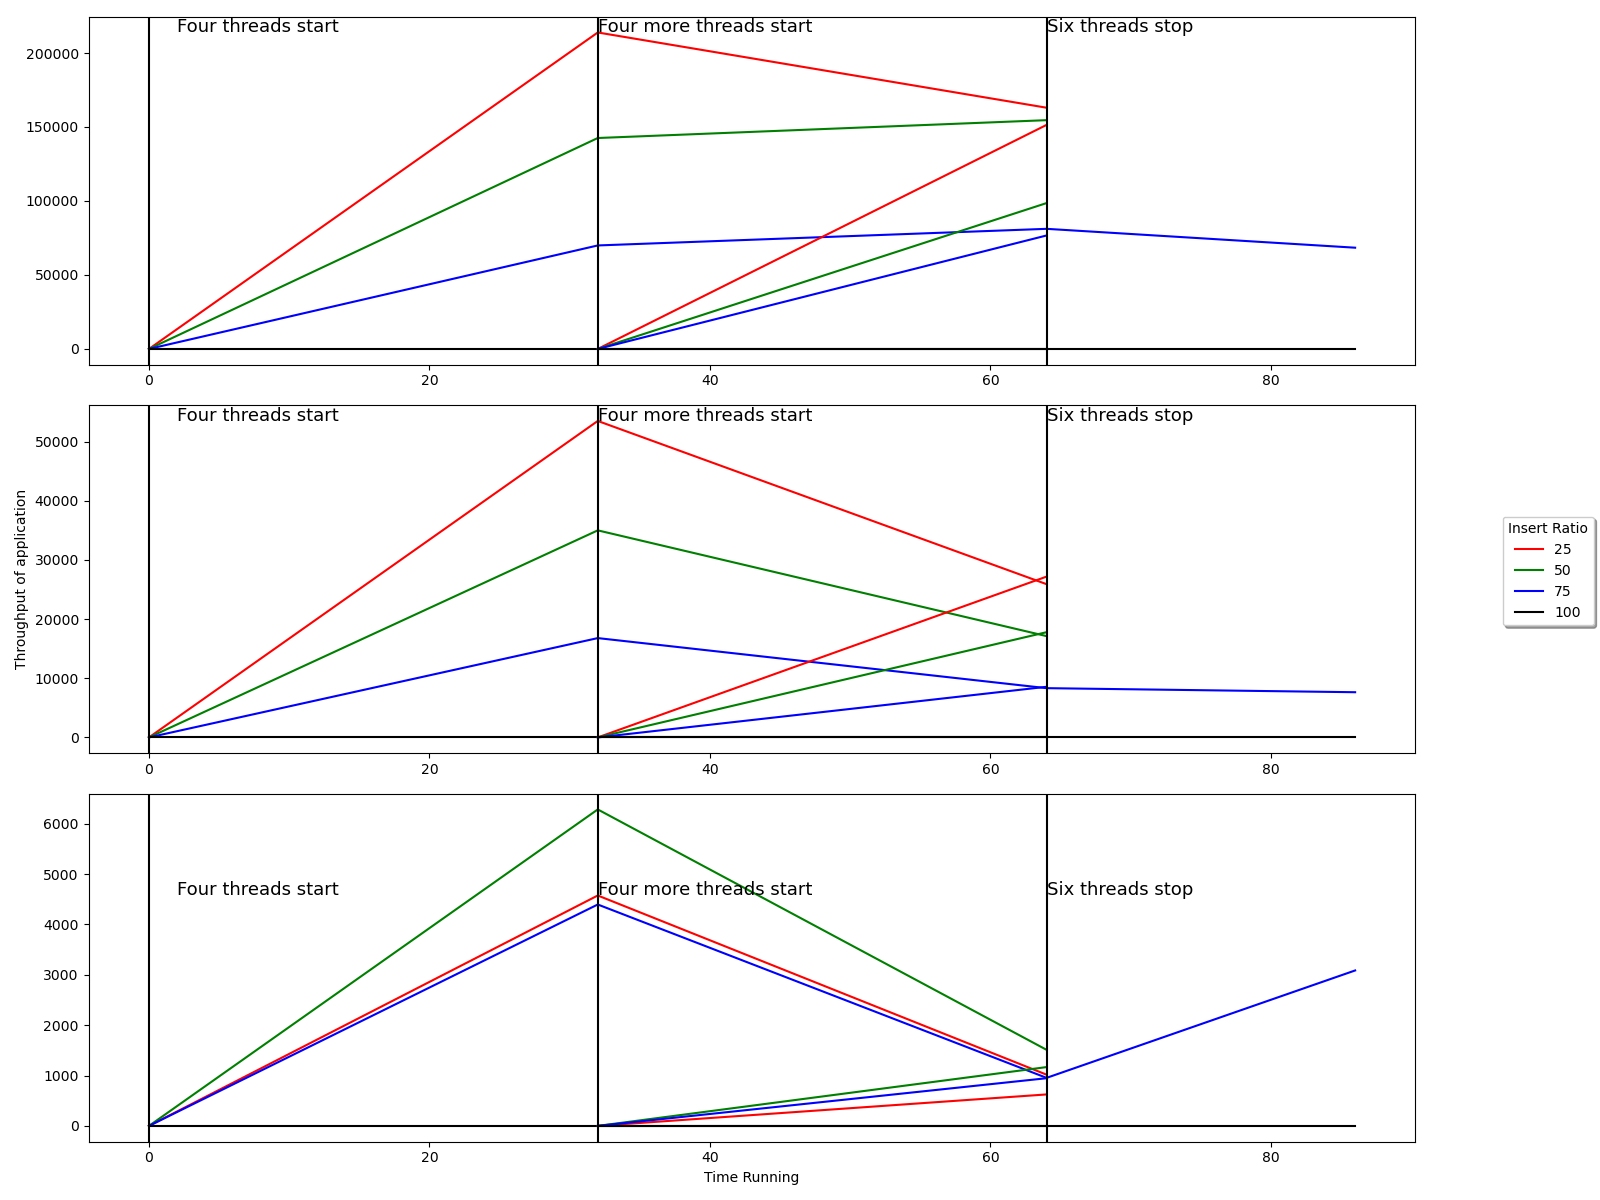
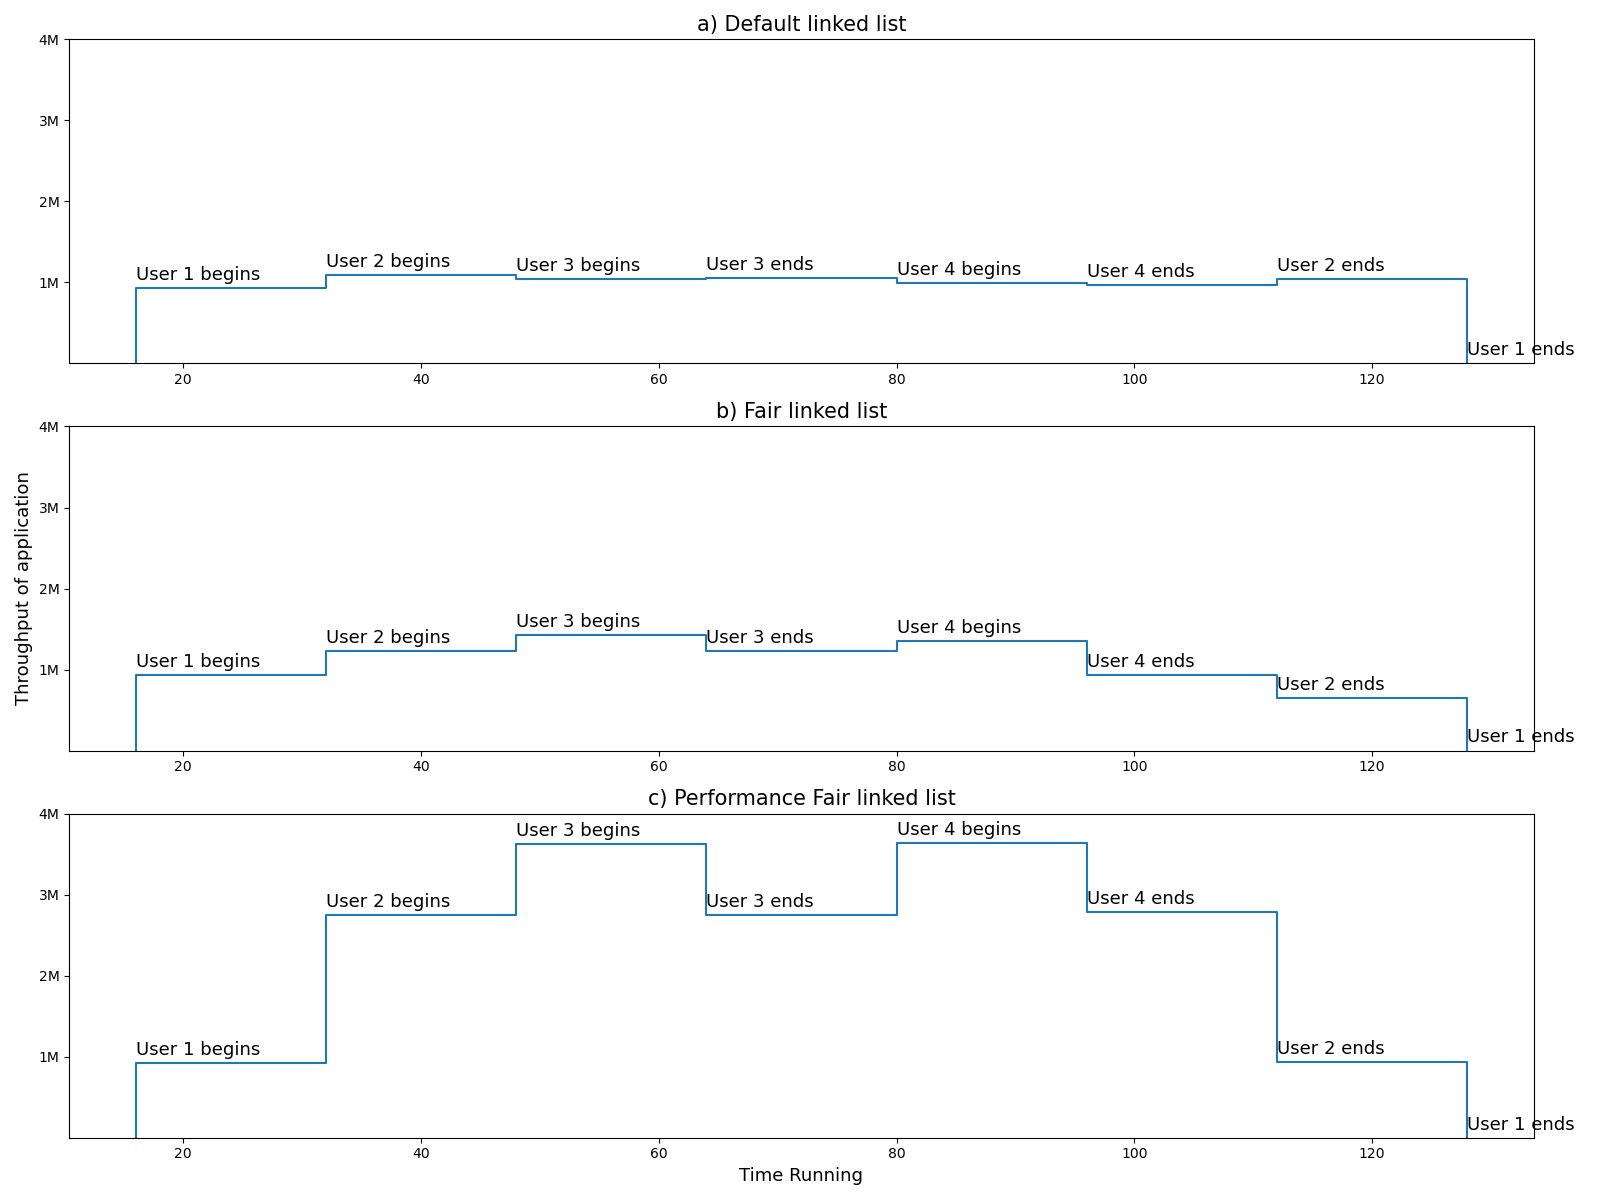
final graph changes to dynamic graph

diff --git a/generate_dynamic_graph.py b/generate_dynamic_graph.py
@@ -6,7 +6,7 @@ import csv
 import sys
 
 fig, axs = plt.subplots(3, figsize=(16, 12))
-
+count = 0
 path = "./tables/dynamic/"  #FILL THIS IN HERE
 fileCount = 0;
 for filename in os.listdir(path):
@@ -14,58 +14,70 @@ for filename in os.listdir(path):
     with open(os.path.join(path, filename), 'r') as file:
             type = filename.split('_list')[0]
             print(type)
-            count = -1
             colours = ['r', 'g', 'b', 'k', 'r', 'g', 'b', 'k']
             ratio = [1, 2, 3, 2, 3, 2, 1]
             reader = csv.reader(file)
             i = -1
+            app_thoughput = []
+            temp_app_throughput = []
+            final_app_throughput  = [0]
+            app_total_time = [0]
             for row in reader:
-                app_thoughput = [0]
-                app_total_time = [0]
                 if i == -1:
                     i = 1
                 else:
                     app_thoughput.append(int(row[1]))
-                    app_thoughput.append(int(row[1]))
+                    #app_thoughput.append(int(row[1]))
 
-                    app_total_time.append(int(row[2]))
-                    app_total_time.append(int(row[2]))
+                    app_total_time.append(float(row[2]))
+                    #app_total_time.append(float(row[2]))
 
-                    time_1 = [0, 16, 16, 32, 32, 48, 48, 64, 64, 80, 80, 96, 96, 112, 112, 138, 138]
-                    
-                    print(app_thoughput)
-                    axs[count].plot(time_1, app_thoughput, label = type)
+                    time_1 = [16, 16, 32, 32, 48, 48, 64, 64, 80, 80, 96, 96, 112, 112, 128, 128]
+            print(app_thoughput)
+            for i in range(len(app_thoughput)):
+                 if i == 0:
+                    temp_app_throughput.append(app_thoughput[i])
+                 else:
+                    temp_app_throughput.append(app_thoughput[i] - app_thoughput[i-1] + app_thoughput[0])
+            #print(temp_app_throughput)
+            for i in temp_app_throughput:
+                 final_app_throughput.append(i)
+                 final_app_throughput.append(i)
+            final_app_throughput.append(0)
+            print(final_app_throughput)
+            axs[count].plot(time_1, final_app_throughput, label = type)
 
+            handles, labels = axs[count].get_legend_handles_labels()
 
+            axs[count].text(time_1[0], final_app_throughput[1] + 100000, 'User 1 begins',fontsize=13)
 
-                    handles, labels = axs[count].get_legend_handles_labels()
+            #axs[count].axvline(x = 32, color = 'k', label = 'axvline - full height')
+            axs[count].text(time_1[3], final_app_throughput[3]+ 100000, 'User 2 begins', fontsize=13)
 
+            #axs[count].axvline(x = 64, color = 'k', label = 'axvline - full height')
+            axs[count].text(time_1[5], final_app_throughput[5]+ 100000, 'User 3 begins', fontsize=13)
+            axs[count].text(time_1[7], final_app_throughput[7]+ 100000, 'User 3 ends',fontsize=13)
 
-                    axs[count].text(time_1[0], max(app_thoughput), 'User 1 begins',fontsize=13)
+            #axs[count].axvline(x = 32, color = 'k', label = 'axvline - full height')
+            axs[count].text(time_1[9], final_app_throughput[9]+ 100000, 'User 4 begins', fontsize=13)
 
-                    #axs[count].axvline(x = 32, color = 'k', label = 'axvline - full height')
-                    axs[count].text(time_1[2], max(app_thoughput), 'User 2 begins', fontsize=13)
+            #axs[count].axvline(x = 64, color = 'k', label = 'axvline - full height')
+            axs[count].text(time_1[11], final_app_throughput[11]+ 100000, 'User 4 ends', fontsize=13)
+            axs[count].text(time_1[13], final_app_throughput[13]+ 100000, 'User 2 ends', fontsize=13)   
+            axs[count].text(time_1[15], final_app_throughput[15]+ 100000, 'User 1 ends', fontsize=13)     
+            #by_label = dict(zip(labels, handles))
+            axs[count].set_ylim([1, max(final_app_throughput) + 100000 + 100000])
+            axs[count].set_yticks([1000000, 2000000, 3000000, 4000000])
+            #ylabels = ["1M", "2M", "3M", "4M"]
+            axs[count].set_yticklabels(["1M", "2M", "3M", "4M"])
+            list=["a) Default", "b) Fair", "c) Performance Fair"]
+            axs[count].set_title(list[count]+ " linked list", fontsize=15)
+            #axs[count].legend(by_label.values(), by_label.keys(), loc='upper center', bbox_to_anchor=(1.1, 0.7), title="Insert Ratio", fancybox=True, shadow=True, fontsize=10)
 
-                    #axs[count].axvline(x = 64, color = 'k', label = 'axvline - full height')
-                    axs[count].text(time_1[4], max(app_thoughput), 'User 3 begins', fontsize=13)
-                    axs[count].text(time_1[6], max(app_thoughput), 'User 3 ends',fontsize=13)
-
-                    #axs[count].axvline(x = 32, color = 'k', label = 'axvline - full height')
-                    axs[count].text(time_1[8], max(app_thoughput), 'User 4 begins', fontsize=13)
-
-                    #axs[count].axvline(x = 64, color = 'k', label = 'axvline - full height')
-                    axs[count].text(time_1[10], max(app_thoughput), 'User 4 ends', fontsize=13)
-                    axs[count].text(time_1[12], max(app_thoughput), 'User 2 ends', fontsize=13)   
-                    axs[count].text(time_1[14], max(app_thoughput), 'User 1 ends', fontsize=13)     
-                    by_label = dict(zip(labels, handles))
-
-                    count+= 1
-
-                    axs[1].legend(by_label.values(), by_label.keys(), loc='upper center', bbox_to_anchor=(1.1, 0.7),
-title="Insert Ratio", fancybox=True, shadow=True, fontsize=10)
-#plt.title("Total lock hold per thread")
-axs[1].set_ylabel("Throughput of application", fontsize=10)#,  yscale = "log")#, #ylim=[1, 10**6])
-axs[2].set_xlabel("Time Running", fontsize=10)
+            count += 1
+            print(count)#plt.title("Total lock hold per thread")
+            axs[1].set_ylabel("Throughput of application", fontsize=13)#,  yscale = "log")#, #ylim=[1, 10**6])
+            axs[2].set_xlabel("Time Running", fontsize=13)
 
 plt.tight_layout()
 

diff --git a/generate_total_tables.py b/generate_total_tables.py
@@ -5,57 +5,55 @@ import os
 import csv
 import sys
 
-final_data = []
 
-rootdir = "./data/"
-for dir in os.listdir(rootdir):
-    type = dir.split('_list')[0]
-    print(type)
-    for filename in os.listdir("./data/" + dir):
-        with open(os.path.join("./data/" + dir, filename), 'r') as file:
-            if filename == "dynamic_applications":
-                applications = 8
-                ratio = [2, 4, 6, 4, 6, 4, 2]
-                throughput = [0, 0, 0, 0, 0, 0, 0]
-                total_cs = [0, 0, 0, 0, 0, 0, 0]
-                duration = 86
-                no_threads = []
-                thread_type = []
-                insert_id = 0
-                find_id = 0
-                tot_time = 0
-                i_tot_time = 0
-                n_ops = 0
-                i_n_ops = 0
-                app_tot_time = 0
-                app_i_tot_time = 0
-                app_n_ops = 0
-                app_i_n_ops = 0
-                for t in range(len(ratio)):
-                    for i in range(ratio[t]):
-                        text_line = file.readline()
-                        # if ((text_line.split(' ')[0] == "Spin_Lock_Opp:") or (not text_line) or (text_line == " ")or (text_line == "\n")):
-                        #     print("ignore")
-                        #     #do nothing with this line
-                        # else:
-                        text = text_line.split('/')
-                        thread_type = text[0].split(' ')[0]
-                        if (thread_type == "id:"):
-                            thread_type = text[0].split(' ')[0]
-                        if (thread_type == 'find'):
-                            thread_id = int(text[0].split(':')[-1]) #int(find_info(text, 1).lstrip().rstrip())
-                            no_ops = int(text[1].split(':')[-1]) #int(find_info(text, 1).lstrip().rstrip())
-                            total_time = float(text[2].split(':')[-1]) #find_info(text, 1).lstrip().rstrip()
-                            throughput[i] += no_ops
-                            total_cs[i] += total_time
-                            #te
-                    
-                final_data.append([type] + throughput + total_cs)
+rootdir = "./data/dynamic"
+
+for filename in os.listdir(rootdir):
+    final_data = []
+    with open(os.path.join(rootdir, filename), 'r') as file:
+        type = filename.split('_linked_list')[0]
+        print(type)
+        applications = 8
+        ratio = [2, 4, 6, 4, 6, 4, 2]
+        throughput = 0 #[0, 0, 0, 0, 0, 0, 0]
+        total_cs = 0#[0, 0, 0, 0, 0, 0, 0]
+        duration = 86
+        no_threads = []
+        thread_type = []
+        insert_id = 0
+        find_id = 0
+        tot_time = 0
+        i_tot_time = 0
+        n_ops = 0
+        i_n_ops = 0
+        app_tot_time = 0
+        app_i_tot_time = 0
+        app_n_ops = 0
+        app_i_n_ops = 0
+        for t in range(len(ratio)):
+            for i in range(ratio[t]):
+                text_line = file.readline()
+                # if ((text_line.split(' ')[0] == "Spin_Lock_Opp:") or (not text_line) or (text_line == " ")or (text_line == "\n")):
+                #     print("ignore")
+                #     #do nothing with this line
+                # else:
+                text = text_line.split('/')
+                thread_type = text[0].split(' ')[0]
+                if (thread_type == "id:"):
+                    thread_type = text[0].split(' ')[0]
+                if (thread_type == 'find'):
+                    thread_id = int(text[0].split(':')[-1]) #int(find_info(text, 1).lstrip().rstrip())
+                    no_ops = int(text[1].split(':')[-1]) #int(find_info(text, 1).lstrip().rstrip())
+                    total_time = float(text[2].split(':')[-1]) #find_info(text, 1).lstrip().rstrip()
+                    throughput += no_ops
+                    total_cs += total_time
+            
+            final_data.append([type, throughput , total_cs])
 
         
-f = open("./tables/default_fair_list_tables/new_dynamic_applications.csv", 'a+', newline="")
-writer = csv.writer(f)
-header = ["Type", "throughput 1", "throughput 1", "throughput 1", "throughput 1", "throughput 1", "throughput 1", "throughput 1", "throughput 1", "time 1", "time 1","time 1","time 1","time 1","time 1","time 1","time 1"]
-writer.writerow(header)
-writer.writerow(final_data)
-f.close()
+        f = open("./tables/dynamic/" + str(type) + "_linked_list.csv", 'a+', newline="")
+        writer = csv.writer(f)
+        header = ["Type", "throughput", "total_cs"]
+        writer.writerow(header)
+        writer.writerow(final_data)
+        f.close()
